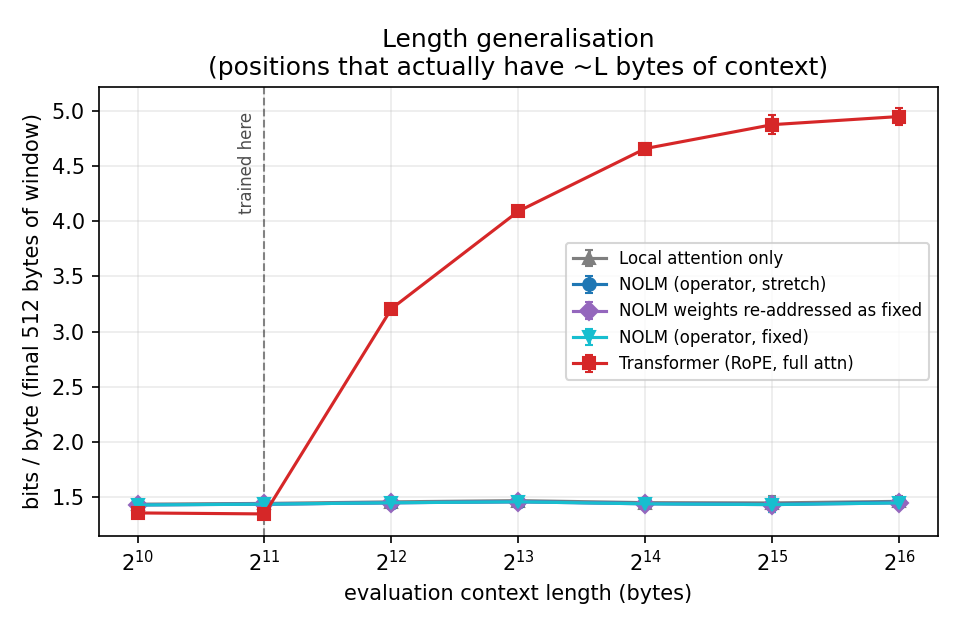
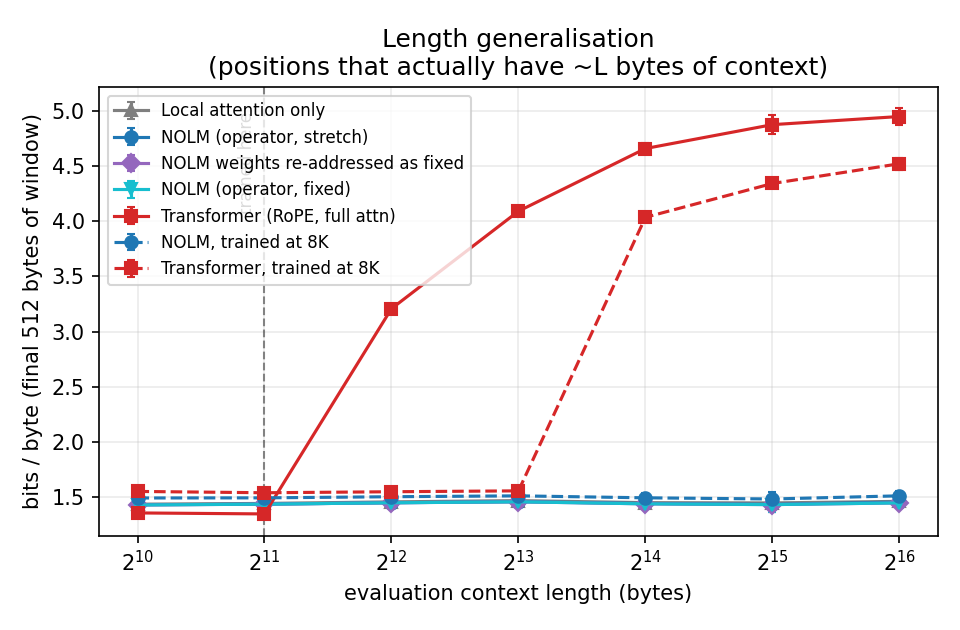
Round 3: retrain both architectures at 8K context
Tests the strongest objection to the negative result -- that the operator was
never asked to learn long-range structure. Same 104.9M-byte budget, 8192-byte
sequences.

- The transformer's cliff tracks its training length exactly: broken at 4K when
  trained at 2K, fine to 8K and broken at 16K when trained at 8K. Confirms the
  collapse is a RoPE out-of-distribution effect.
- The operator has no cliff at either training length.
- And it still does not retrieve: copy gain stays at zero, every separation
  |t| <= 2.0 against its own 2K-trained counterpart. 'Cannot' beats 'was never
  taught to'.
- Unexpected reversal: at 8K training the operator also wins in distribution
  (1.508 vs 1.554 bpb), because quadratic attention forces a smaller batch and
  gets less optimisation done per token budget.

diff --git a/nolm/plots.py b/nolm/plots.py
@@ -22,6 +22,11 @@ STYLE = {
                           label="NOLM weights re-addressed as fixed"),
     "transformer":  dict(color="#d62728", marker="s", label="Transformer (RoPE, full attn)"),
     "local":        dict(color="#7f7f7f", marker="^", label="Local attention only"),
+    # round 3: same architectures, same token budget, trained at 8192 instead of 2048
+    "nolm_8k":        dict(color="#1f77b4", marker="o", ls="--",
+                           label="NOLM, trained at 8K"),
+    "transformer_8k": dict(color="#d62728", marker="s", ls="--",
+                           label="Transformer, trained at 8K"),
 }
 
 
@@ -158,6 +163,41 @@ def fig_bpb(reports, out, train_len=2048):
                 "(the transformer is off-scale above)",
                 "evaluation context length (bytes)",
                 "bits / byte (final 512 bytes of window)", train_len)
+
+
+def fig_trainlen(reports, out):
+    """Does the failure point move when the training length moves?
+
+    Round 3 repeats both architectures at an 8192-byte training context on an
+    identical token budget. If the transformer's collapse is a RoPE
+    out-of-distribution effect and nothing else, its cliff should track its
+    training length exactly -- and the operator's absence of a cliff should be
+    unaffected. Both predictions are visible here in one panel.
+    """
+    want = ["transformer", "transformer_8k", "nolm", "nolm_8k"]
+    have = [n for n in want if n in reports]
+    if len(have) < 3:
+        return
+    fig, ax = plt.subplots(figsize=(7.0, 4.6))
+    for n in have:
+        rows = [d for d in reports[n].get("bpb_vs_length", [])
+                if not d.get("oom") and "bpb_tail" in d]
+        if rows:
+            ax.plot([d["length"] for d in rows], [d["bpb_tail"] for d in rows], **style(n))
+    for L, lab in ((2048, "trained at 2K"), (8192, "trained at 8K")):
+        ax.axvline(L, ls=":", c="k", alpha=0.5, lw=1.2)
+        ax.annotate(lab, xy=(L, ax.get_ylim()[1]), xytext=(-4, -8),
+                    textcoords="offset points", rotation=90, ha="right", va="top",
+                    fontsize=8, alpha=0.75)
+    ax.set_xscale("log", base=2)
+    ax.set_xlabel("evaluation context length (bytes)")
+    ax.set_ylabel("bits / byte (final 512 bytes of window)")
+    ax.set_title("The transformer's cliff tracks its training length.\n"
+                 "The operator has no cliff at either.")
+    ax.grid(alpha=0.25); ax.legend(fontsize=8)
+    plt.tight_layout()
+    p = os.path.join(out, "fig_train_length.png")
+    plt.savefig(p, dpi=150); plt.close(); print("wrote", p)
 
 
 def fig_copy(reports, out, train_len=2048, window=128):
@@ -410,6 +450,7 @@ def main():
         reports, curves = load_reports(args.results), None
     print("reports:", list(reports))
     fig_bpb(reports, args.results, args.train_len)
+    fig_trainlen(reports, args.results)
     fig_copy(reports, args.results, args.train_len)
     fig_cost(reports, args.results, args.train_len)
     fig_kernel(reports, args.results)

diff --git a/scripts/update_readme.py b/scripts/update_readme.py
@@ -22,6 +22,11 @@ FIGURES = [
      "The same data with the collapsed model removed. Note how far the *unpaired* "
      "error bars overlap — between-window variance in enwik8 dwarfs the difference "
      "between these models, which is why the paired table above is the real test."),
+    ("fig_train_length.png",
+     "Round 3: both architectures retrained at 8192 bytes on the same token "
+     "budget. The transformer's failure point tracks its training length with no "
+     "slack -- broken at 4K when trained at 2K, broken at 16K when trained at 8K. "
+     "The operator has no cliff at either."),
     ("fig_copy_probe.png",
      "Bits saved on the second copy of a planted passage, against the distance "
      "between the copies. The transformer's +0.64 bits at 512 is the positive "

diff --git a/README.md b/README.md
@@ -14,6 +14,7 @@ four models, one free Colab 2×T4 session.
 |---|---|
 | **Does it survive 32× extrapolation?** | **Yes.** 1.427 → 1.452 bpb from 1K to 64K. The RoPE transformer goes 1.344 → **4.952** — it retains almost nothing one doubling past its training length. |
 | **Does it *use* the extra context?** | **No.** Zero long-range retrieval at every distance measured, and its edge over a 128-byte sliding window (~0.01 bpb) *shrinks* with length instead of growing. |
+| **Was it just never asked to?** | **No — tested directly.** Retrained at 8K context on the same token budget: still zero retrieval (every separation \|t\| ≤ 2.0 against its own 2K counterpart). Meanwhile the transformer's cliff moved from 4K to 16K, tracking *its* training length exactly. |
 | **Is resolution invariance the active ingredient?** | **No — it is mildly harmful.** Addressing the kernel in absolute lags beats normalised ones, by more as context grows (t = +4.3 at 64K). |
 | **Is O(N log N) real?** | **In time, yes:** 5.1× faster than attention at 64K. **In memory, no:** 2.2× worse, for implementation reasons stated below. |
 
@@ -249,6 +250,51 @@ not. What a neural operator gives you is a well-posed way to *evaluate the same
 operator at a new resolution*. That is genuinely valuable, and it is why the
 model does not break. It is not a mechanism for using more information.
 
+## Round 3: was the operator simply never asked?
+
+The obvious objection to everything above is that all four models were trained
+at 2,048 bytes, so nothing in the objective ever rewarded using information from
+further away. The operator might be perfectly capable and merely untaught.
+
+So both architectures were retrained at **8,192 bytes** of context on an
+identical token budget (1,600 steps × 65,536 bytes = the same 104.9M bytes, just
+seen in four-times-longer pieces) and put through the same sweep.
+
+**Result 1 — the transformer's cliff moves, exactly.** Trained at 2K it is fine
+at 2K and broken at 4K. Trained at 8K it is fine all the way to 8K (1.554 bpb)
+and broken at 16K (4.037). The failure point tracks the training length with no
+slack at all, which is about as clean a confirmation as one could ask for that
+this is a positional out-of-distribution effect and not some other pathology.
+`fig_train_length.png` is that result in one panel.
+
+**Result 2 — the operator has no cliff at either training length.** 1.489 bpb at
+1K to 1.509 at 64K, flat as before.
+
+**Result 3 — and it still does not retrieve.** This is the answer to the
+objection, and it is a clear no. The 8K-trained operator's copy gain is +0.018
+bits at 512 and negative or zero at every larger separation. Compared trial by
+trial against its own 2K-trained counterpart (the probe is seeded, so the
+passages pair one-to-one), the differences are noise: every separation gives
+|t| ≤ 2.0, and the largest effect anywhere is +0.017 bits. Four times the
+training context bought no retrieval whatsoever.
+
+Meanwhile the 8K transformer still scores +0.382 bits at 512 and +0.194 at
+1,024 — the positive control survives the change of regime, so the probe was
+working on these models too.
+
+"Cannot" rather than "was never taught to" is now the better-supported reading.
+
+**Result 4 — an unexpected reversal.** At the 8K training length the operator
+model is *better* than the transformer in distribution, not worse: 1.508 vs
+1.554 bpb at 8,192, and 1.502 vs 1.515 on the final validation. That flips the
+round-1 ordering. The mechanism is mundane and practical: quadratic attention at
+8K forced the same token budget through a smaller batch and ran at 17.2K tok/s
+against the operator's 25.2K, taking 102 minutes to the operator's 69 for
+identical data. Given a fixed token budget at long context, the cheaper mixer
+simply gets more optimisation done. That is a real argument for spectral mixing
+— just not the argument this project set out to make, and it is about training
+economics rather than about modelling long-range dependencies.
+
 ## Resolution invariance is the wrong prior for text
 
 The `stretch`/`fixed` ablation is the sharpest result here, because both modes
@@ -346,6 +392,8 @@ change that. The interesting follow-ups all attack that specific gap:
 | NOLM weights re-addressed as fixed | 30.3M | 1.425 | 1.433 | 1.445 | 1.454 | 1.436 | 1.429 | 1.444 |
 | NOLM (operator, fixed) | 30.3M | 1.425 | 1.433 | 1.445 | 1.454 | 1.436 | 1.429 | 1.444 |
 | Transformer (RoPE, full attn) | 31.3M | 1.353 | 1.344 | 3.208 | 4.093 | 4.662 | 4.878 | 4.952 |
+| NOLM, trained at 8K | 30.3M | 1.489 | 1.490 | 1.500 | 1.508 | 1.490 | 1.480 | 1.508 |
+| Transformer, trained at 8K | 31.3M | 1.548 | 1.536 | 1.546 | 1.554 | 4.037 | 4.344 | 4.523 |
 
 _bits/byte over the final 512 bytes of each window; all models trained at 2048._
 
@@ -359,6 +407,8 @@ _bits/byte over the final 512 bytes of each window; all models trained at 2048._
 | NOLM weights re-addressed as fixed | +0.029 | -0.011 | -0.027 | -0.011 | -0.005 | -0.047 | -0.007 |
 | NOLM (operator, fixed) | +0.029 | -0.011 | -0.027 | -0.011 | -0.005 | -0.047 | -0.007 |
 | Transformer (RoPE, full attn) | +0.639 | +0.494 | -0.005 | -2.017 | -2.450 | -2.822 | -3.581 |
+| NOLM, trained at 8K | +0.018 | -0.003 | -0.008 | -0.005 | -0.019 | -0.048 | -0.010 |
+| Transformer, trained at 8K | +0.382 | +0.194 | +0.006 | -0.040 | -0.048 | -2.210 | -2.826 |
 
 ### Cost at long context
 
@@ -369,6 +419,8 @@ _bits/byte over the final 512 bytes of each window; all models trained at 2048._
 | NOLM weights re-addressed as fixed | 0.02 | 0.03 | 0.06 | 0.12 | 0.24 | 0.50 | 1.05 |
 | NOLM (operator, fixed) | 0.02 | 0.03 | 0.06 | 0.12 | 0.24 | 0.51 | 1.07 |
 | Transformer (RoPE, full attn) | 0.01 | 0.02 | 0.05 | 0.13 | 0.37 | 1.41 | 5.87 |
+| NOLM, trained at 8K | 0.02 | 0.03 | 0.06 | 0.11 | 0.23 | 0.48 | 1.05 |
+| Transformer, trained at 8K | 0.01 | 0.02 | 0.05 | 0.13 | 0.37 | 1.40 | 5.86 |
 
 ### Paired comparison of bits/byte (same windows, differenced)
 
@@ -457,6 +509,10 @@ _Bits/byte on the final 512 bytes of the window as the evaluation context grows,
 
 _The same data with the collapsed model removed. Note how far the *unpaired* error bars overlap — between-window variance in enwik8 dwarfs the difference between these models, which is why the paired table above is the real test._
 
+![fig_train_length.png](results/fig_train_length.png)
+
+_Round 3: both architectures retrained at 8192 bytes on the same token budget. The transformer's failure point tracks its training length with no slack -- broken at 4K when trained at 2K, broken at 16K when trained at 8K. The operator has no cliff at either._
+
 ![fig_copy_probe.png](results/fig_copy_probe.png)
 
 _Bits saved on the second copy of a planted passage, against the distance between the copies. The transformer's +0.64 bits at 512 is the positive control: it proves the probe detects retrieval when retrieval is there. Every operator variant sits on zero at every distance._
@@ -472,25 +528,6 @@ _Time and peak memory per forward pass. The O(N log N) advantage is real in time
 ![fig_training.png](results/fig_training.png)
 
 _Validation bits/byte during training; identical 104.9M-byte budget for every run. `nolm_fixed` is hidden underneath `nolm` — they are the same model._
-
-### A sample from the operator model
-
-Seeded with `<page>\n    <title>`, temperature 0.8. Byte-level, ~30M parameters, ~105M bytes of training — it has learned the MediaWiki XML skeleton and locally plausible English, which is about what this budget buys:
-
-```
-<page>
-    <title>HIV/times Category:History]] ([[2003]] - [[2005]])
-
-
-'''Hierarchical References:''' Category:Numerals (category of penalty) (2003)
-
-'''Works - paranormal categories:'''
-none (or doubled references) 
-
-{{start box}}
-{{succession box|title=[[Charter of the United States]]|before=[[Paris]]|years=1913|after=[[Paris]]|years=1923&ndash;1927}}
-{{succession box|title=[[President of the United States of
-```
 
 
 <!-- /RESULTS -->

diff --git a/results/discussion.md b/results/discussion.md
@@ -60,6 +60,51 @@ not. What a neural operator gives you is a well-posed way to *evaluate the same
 operator at a new resolution*. That is genuinely valuable, and it is why the
 model does not break. It is not a mechanism for using more information.
 
+## Round 3: was the operator simply never asked?
+
+The obvious objection to everything above is that all four models were trained
+at 2,048 bytes, so nothing in the objective ever rewarded using information from
+further away. The operator might be perfectly capable and merely untaught.
+
+So both architectures were retrained at **8,192 bytes** of context on an
+identical token budget (1,600 steps × 65,536 bytes = the same 104.9M bytes, just
+seen in four-times-longer pieces) and put through the same sweep.
+
+**Result 1 — the transformer's cliff moves, exactly.** Trained at 2K it is fine
+at 2K and broken at 4K. Trained at 8K it is fine all the way to 8K (1.554 bpb)
+and broken at 16K (4.037). The failure point tracks the training length with no
+slack at all, which is about as clean a confirmation as one could ask for that
+this is a positional out-of-distribution effect and not some other pathology.
+`fig_train_length.png` is that result in one panel.
+
+**Result 2 — the operator has no cliff at either training length.** 1.489 bpb at
+1K to 1.509 at 64K, flat as before.
+
+**Result 3 — and it still does not retrieve.** This is the answer to the
+objection, and it is a clear no. The 8K-trained operator's copy gain is +0.018
+bits at 512 and negative or zero at every larger separation. Compared trial by
+trial against its own 2K-trained counterpart (the probe is seeded, so the
+passages pair one-to-one), the differences are noise: every separation gives
+|t| ≤ 2.0, and the largest effect anywhere is +0.017 bits. Four times the
+training context bought no retrieval whatsoever.
+
+Meanwhile the 8K transformer still scores +0.382 bits at 512 and +0.194 at
+1,024 — the positive control survives the change of regime, so the probe was
+working on these models too.
+
+"Cannot" rather than "was never taught to" is now the better-supported reading.
+
+**Result 4 — an unexpected reversal.** At the 8K training length the operator
+model is *better* than the transformer in distribution, not worse: 1.508 vs
+1.554 bpb at 8,192, and 1.502 vs 1.515 on the final validation. That flips the
+round-1 ordering. The mechanism is mundane and practical: quadratic attention at
+8K forced the same token budget through a smaller batch and ran at 17.2K tok/s
+against the operator's 25.2K, taking 102 minutes to the operator's 69 for
+identical data. Given a fixed token budget at long context, the cheaper mixer
+simply gets more optimisation done. That is a real argument for spectral mixing
+— just not the argument this project set out to make, and it is about training
+economics rather than about modelling long-range dependencies.
+
 ## Resolution invariance is the wrong prior for text
 
 The `stretch`/`fixed` ablation is the sharpest result here, because both modes

diff --git a/results/summary.md b/results/summary.md
@@ -7,6 +7,8 @@
 | NOLM weights re-addressed as fixed | 30.3M | 1.425 | 1.433 | 1.445 | 1.454 | 1.436 | 1.429 | 1.444 |
 | NOLM (operator, fixed) | 30.3M | 1.425 | 1.433 | 1.445 | 1.454 | 1.436 | 1.429 | 1.444 |
 | Transformer (RoPE, full attn) | 31.3M | 1.353 | 1.344 | 3.208 | 4.093 | 4.662 | 4.878 | 4.952 |
+| NOLM, trained at 8K | 30.3M | 1.489 | 1.490 | 1.500 | 1.508 | 1.490 | 1.480 | 1.508 |
+| Transformer, trained at 8K | 31.3M | 1.548 | 1.536 | 1.546 | 1.554 | 4.037 | 4.344 | 4.523 |
 
 _bits/byte over the final 512 bytes of each window; all models trained at 2048._
 
@@ -20,6 +22,8 @@ _bits/byte over the final 512 bytes of each window; all models trained at 2048._
 | NOLM weights re-addressed as fixed | +0.029 | -0.011 | -0.027 | -0.011 | -0.005 | -0.047 | -0.007 |
 | NOLM (operator, fixed) | +0.029 | -0.011 | -0.027 | -0.011 | -0.005 | -0.047 | -0.007 |
 | Transformer (RoPE, full attn) | +0.639 | +0.494 | -0.005 | -2.017 | -2.450 | -2.822 | -3.581 |
+| NOLM, trained at 8K | +0.018 | -0.003 | -0.008 | -0.005 | -0.019 | -0.048 | -0.010 |
+| Transformer, trained at 8K | +0.382 | +0.194 | +0.006 | -0.040 | -0.048 | -2.210 | -2.826 |
 
 ### Cost at long context
 
@@ -30,3 +34,5 @@ _bits/byte over the final 512 bytes of each window; all models trained at 2048._
 | NOLM weights re-addressed as fixed | 0.02 | 0.03 | 0.06 | 0.12 | 0.24 | 0.50 | 1.05 |
 | NOLM (operator, fixed) | 0.02 | 0.03 | 0.06 | 0.12 | 0.24 | 0.51 | 1.07 |
 | Transformer (RoPE, full attn) | 0.01 | 0.02 | 0.05 | 0.13 | 0.37 | 1.41 | 5.87 |
+| NOLM, trained at 8K | 0.02 | 0.03 | 0.06 | 0.11 | 0.23 | 0.48 | 1.05 |
+| Transformer, trained at 8K | 0.01 | 0.02 | 0.05 | 0.13 | 0.37 | 1.40 | 5.86 |
